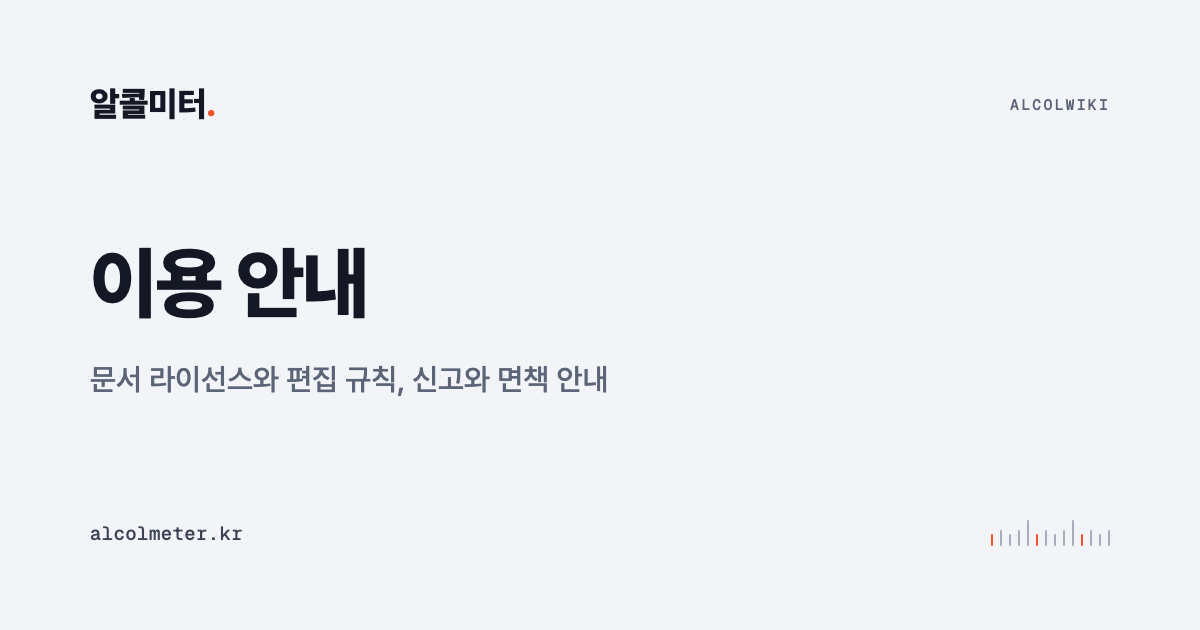
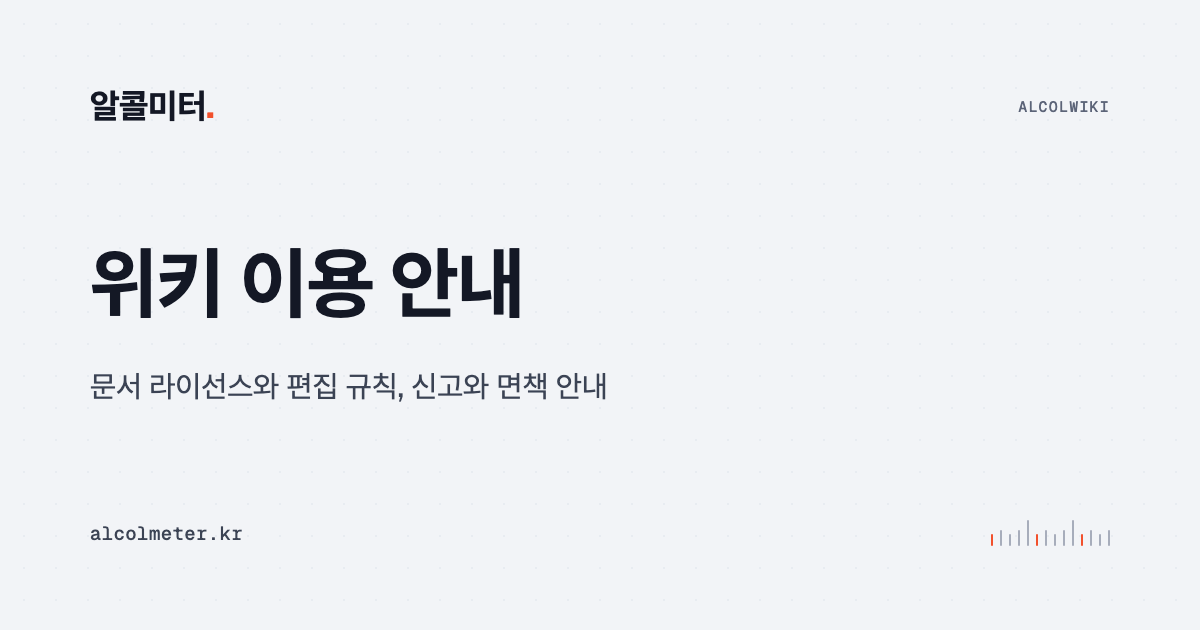
fix: OG 템플릿 타이포를 디자인시스템 토큰에 맞추고 홈을 브랜드 레이아웃으로 교체

diff --git a/.claude/skills/alcol-og-image/og-template.html b/.claude/skills/alcol-og-image/og-template.html
@@ -2,12 +2,22 @@
 <html lang="ko">
 <head>
 <meta charset="utf-8" />
+<!-- 폰트는 app.html과 같은 출처·같은 조합을 쓴다. Cabinet Grotesk가 빠지면 상표의 마침표가
+     Pretendard의 둥근 점으로 바뀌어 실제 화면의 로고와 달라진다. -->
 <link rel="preconnect" href="https://fonts.googleapis.com" />
 <link rel="preconnect" href="https://fonts.gstatic.com" crossorigin />
-<link href="https://fonts.googleapis.com/css2?family=Geist+Mono:wght@400;500;600&display=swap" rel="stylesheet" />
+<link href="https://fonts.googleapis.com/css2?family=Geist:wght@400;500;600;700&family=Geist+Mono:wght@400;500;600&display=swap" rel="stylesheet" />
+<link href="https://api.fontshare.com/v2/css?f[]=cabinet-grotesk@500,700,800&display=swap" rel="stylesheet" />
 <link rel="stylesheet" href="https://cdn.jsdelivr.net/gh/orioncactus/pretendard@v1.3.9/dist/web/static/pretendard.min.css" />
 <style>
+  /* design-system 토큰(packages/design-system/src/tokens.css)을 그대로 옮겨 둔다. */
   :root {
+    --font-display: 'Cabinet Grotesk', 'Geist', 'Pretendard', -apple-system, BlinkMacSystemFont, system-ui, sans-serif;
+    --font-sans: 'Geist', 'Pretendard', -apple-system, BlinkMacSystemFont, system-ui, sans-serif;
+    --font-mono: 'Geist Mono', 'Pretendard', ui-monospace, Menlo, monospace;
+    --weight-bold: 700;
+    --tracking-tight: -0.01em;
+
     --bg: #f2f4f7;
     --surface: #ffffff;
     --ink1: #141825;
@@ -16,13 +26,14 @@
     --ink4: #a7adbb;
     --spark: #f2512d;
     --border2: #d4d9e2;
-    --grid: #dbe0e9;
+    --grid: #e8ecf1;
   }
   * { margin: 0; padding: 0; box-sizing: border-box; }
   html, body { width: 1200px; height: 630px; }
   body {
-    font-family: 'Pretendard', sans-serif;
+    font-family: var(--font-sans);
     background-color: var(--bg);
+    /* 카드가 작게 보이는 매체라 실제 화면(8px·1px)보다 눈금을 키워 깐다. 색은 토큰 그대로. */
     background-image: radial-gradient(var(--grid) 1.5px, transparent 1.5px);
     background-size: 32px 32px;
     background-position: 8px 8px;
@@ -38,33 +49,67 @@
     justify-content: space-between;
   }
   .top { display: flex; align-items: center; justify-content: space-between; }
-  .brand { font-weight: 800; font-size: 34px; letter-spacing: -0.01em; color: var(--ink1); }
+  /* 헤더 로고: +layout.svelte의 .logo-text와 같은 폰트·굵기·자간 */
+  .brand {
+    font-family: var(--font-display);
+    font-weight: var(--weight-bold);
+    font-size: 34px;
+    letter-spacing: var(--tracking-tight);
+    color: var(--ink1);
+  }
   .brand .dot { color: var(--spark); }
+  /* 섹션 라벨: 홈 히어로의 .eyebrow와 같은 결(mono·500·0.08em·ink-3) */
   .tag {
-    font-family: 'Geist Mono', monospace;
+    font-family: var(--font-mono);
     font-size: 15px;
     font-weight: 500;
-    letter-spacing: 0.14em;
+    letter-spacing: 0.08em;
     color: var(--ink3);
   }
   .mid { display: flex; flex-direction: column; }
+  /* 큰 제목: 페이지 제목류와 같은 display 폰트·700·-0.01em */
   .title {
-    font-weight: 800;
+    font-family: var(--font-display);
+    font-weight: var(--weight-bold);
     font-size: 78px;
-    line-height: 1.08;
-    letter-spacing: -0.025em;
+    line-height: 1.2;
+    letter-spacing: var(--tracking-tight);
     color: var(--ink1);
     max-width: 1020px;
     /* 제목 줄바꿈은 파라미터의 개행 문자를 그대로 살린다 */
     white-space: pre-line;
   }
+  /* 제목·부제 속 `*강조*` 구간. 홈에서만 쓴다 (절제) */
+  .spark { color: var(--spark); }
+  /* 부제: 히어로 설명문과 같은 결(sans·400·ink-2) */
   .subtitle {
     margin-top: 32px;
-    font-weight: 500;
+    font-family: var(--font-sans);
+    font-weight: 400;
     font-size: 30px;
-    line-height: 1.45;
-    color: var(--ink3);
+    line-height: 1.6;
+    color: var(--ink2);
     max-width: 920px;
+  }
+  /* 브랜드 레이아웃(홈 전용): 상표를 가운데 크게 세우고 그 아래 한 줄로 소개한다. */
+  .brand-mark { display: none; }
+  body.brand .top .brand { visibility: hidden; }
+  body.brand .mid { align-items: center; text-align: center; }
+  body.brand .title { display: none; }
+  body.brand .brand-mark {
+    display: block;
+    font-family: var(--font-display);
+    font-weight: var(--weight-bold);
+    font-size: 112px;
+    line-height: 1.2;
+    letter-spacing: var(--tracking-tight);
+    color: var(--ink1);
+  }
+  body.brand .brand-mark .dot { color: var(--spark); }
+  body.brand .subtitle {
+    margin-top: 24px;
+    font-size: 38px;
+    max-width: none;
   }
   .bottom { display: flex; align-items: flex-end; justify-content: space-between; }
   .url {
@@ -86,8 +131,8 @@
       <div class="tag" id="label">COMMUNITY</div>
     </div>
     <div class="mid">
-      <div class="title" id="title">술을 빚는 사람과
-즐기는 사람 모두</div>
+      <div class="brand-mark">알콜미터<span class="dot">.</span></div>
+      <div class="title" id="title">술을 <span class="spark">빚고 즐기는</span> 사람들</div>
       <div class="subtitle" id="subtitle">양조 기록과 후기, 알콜위키와 계산기까지</div>
     </div>
     <div class="bottom">
@@ -98,10 +143,29 @@
   <script>
     // 라벨·제목·부제는 URL 파라미터(?label=..&title=..&subtitle=..) 또는 DOM 교체로 주입한다.
     // 제목의 줄바꿈은 개행 문자(%0A)로 넘긴다 (.title이 white-space: pre-line).
+    // `?layout=brand`는 홈 전용 레이아웃(가운데 상표 + 한 줄 소개)이다.
     const p = new URLSearchParams(location.search);
-    if (p.get('label')) document.getElementById('label').textContent = p.get('label');
-    if (p.get('title')) document.getElementById('title').textContent = p.get('title');
-    if (p.get('subtitle')) document.getElementById('subtitle').textContent = p.get('subtitle');
+    if (p.get('layout') === 'brand') document.body.classList.add('brand');
+    if (p.get('label') === 'none') document.getElementById('label').style.visibility = 'hidden';
+    else if (p.get('label')) document.getElementById('label').textContent = p.get('label');
+    if (p.get('title')) setSpark(document.getElementById('title'), p.get('title'));
+    if (p.get('subtitle')) setSpark(document.getElementById('subtitle'), p.get('subtitle'));
+
+    // `*…*` 구간만 주황(--spark)으로 세운다. innerHTML을 쓰지 않고 노드로 짜 넣는다.
+    function setSpark(el, text) {
+      el.textContent = '';
+      text.split(/\*([^*]+)\*/).forEach((chunk, i) => {
+        if (!chunk) return;
+        if (i % 2 === 0) {
+          el.appendChild(document.createTextNode(chunk));
+        } else {
+          const span = document.createElement('span');
+          span.className = 'spark';
+          span.textContent = chunk;
+          el.appendChild(span);
+        }
+      });
+    }
     // 우하단 측정 눈금 (5번째마다 spark, 높이 패턴)
     const ticks = document.getElementById('ticks');
     const heights = [12, 16, 12, 16, 26, 12, 16, 12, 16, 26, 12, 16, 12, 16];
